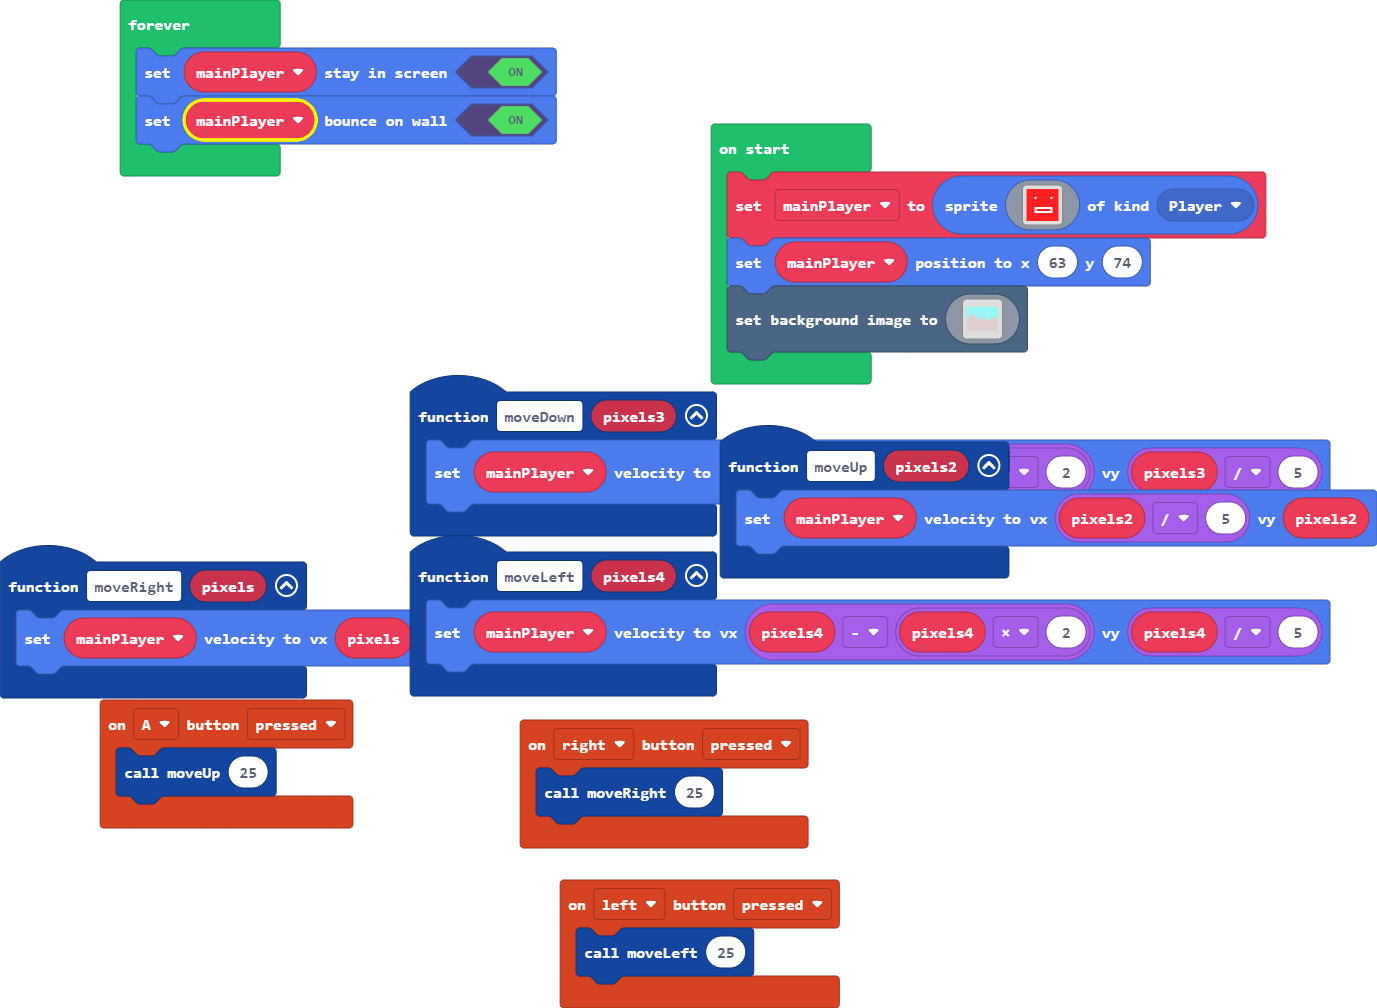
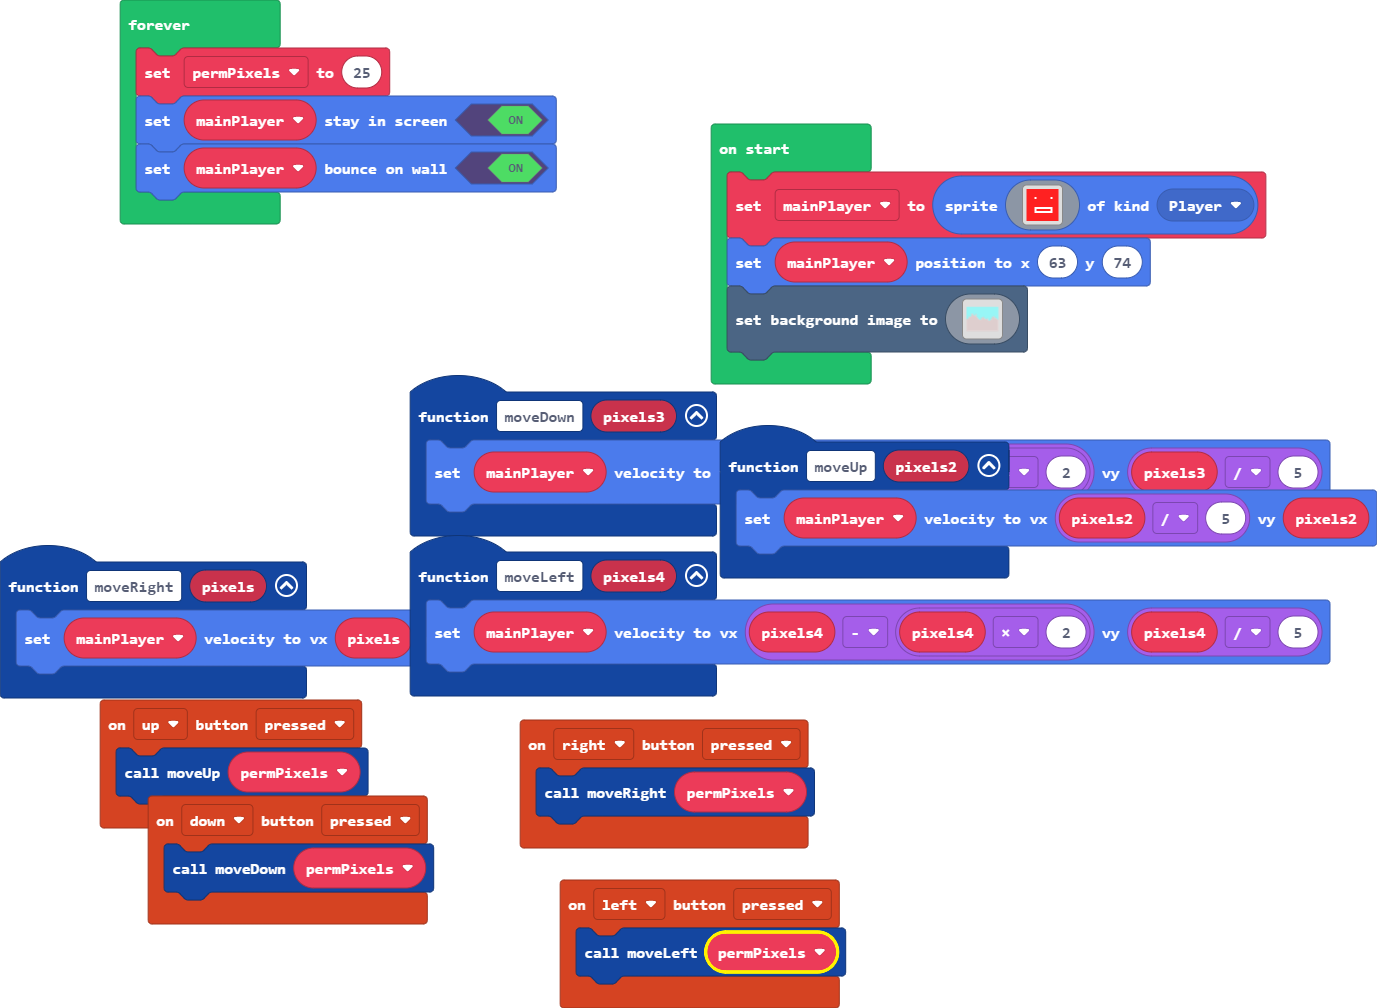
Update main.blocks, main.ts

diff --git a/main.ts b/main.ts
@@ -2,32 +2,37 @@ namespace SpriteKind {
     export const GUI = SpriteKind.create()
     export const floor = SpriteKind.create()
 }
+controller.up.onEvent(ControllerButtonEvent.Pressed, function () {
+    moveUp(permPixels)
+})
 function moveRight (pixels: number) {
     mainPlayer.setVelocity(pixels, pixels / 5)
 }
 function moveUp (pixels2: number) {
     mainPlayer.setVelocity(pixels2 / 5, pixels2)
 }
-controller.A.onEvent(ControllerButtonEvent.Pressed, function () {
-    moveUp(25)
-})
 controller.left.onEvent(ControllerButtonEvent.Pressed, function () {
-    moveLeft(25)
+    moveLeft(permPixels)
 })
 function moveDown (pixels3: number) {
     mainPlayer.setVelocity(pixels3 - pixels3 * 2, pixels3 / 5)
 }
 controller.right.onEvent(ControllerButtonEvent.Pressed, function () {
-    moveRight(25)
+    moveRight(permPixels)
+})
+controller.down.onEvent(ControllerButtonEvent.Pressed, function () {
+    moveDown(permPixels)
 })
 function moveLeft (pixels4: number) {
     mainPlayer.setVelocity(pixels4 - pixels4 * 2, pixels4 / 5)
 }
+let permPixels = 0
 let mainPlayer: Sprite = null
 mainPlayer = sprites.create(assets.image`character`, SpriteKind.Player)
 mainPlayer.setPosition(63, 74)
 scene.setBackgroundImage(assets.image`skyBox`)
 forever(function () {
+    permPixels = 25
     mainPlayer.setStayInScreen(true)
     mainPlayer.setBounceOnWall(true)
 })
